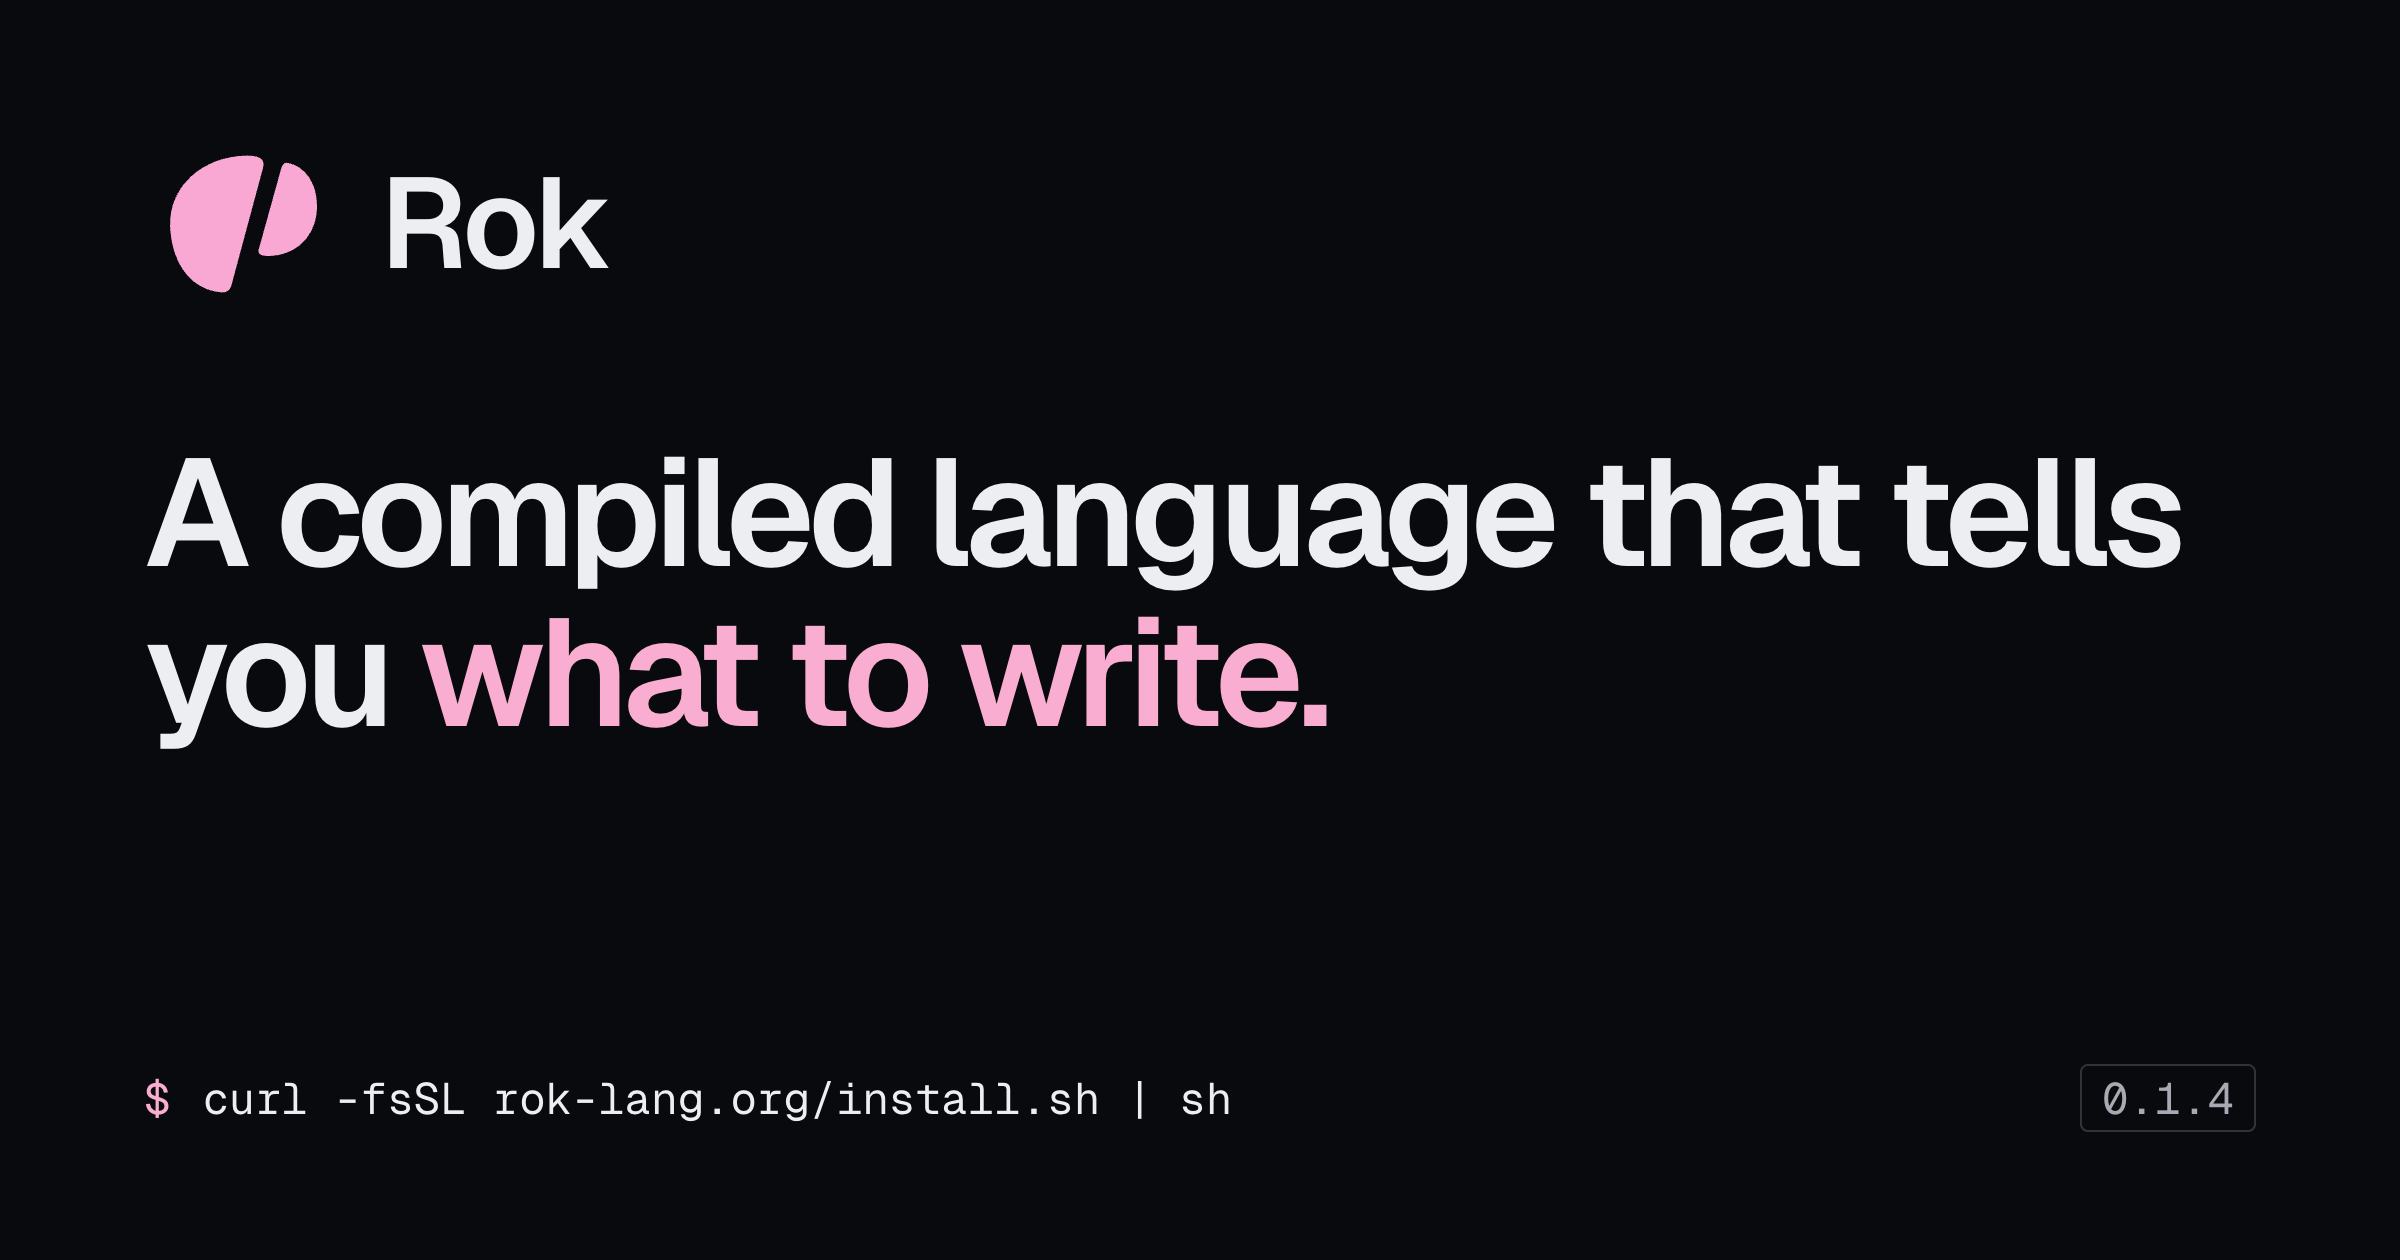
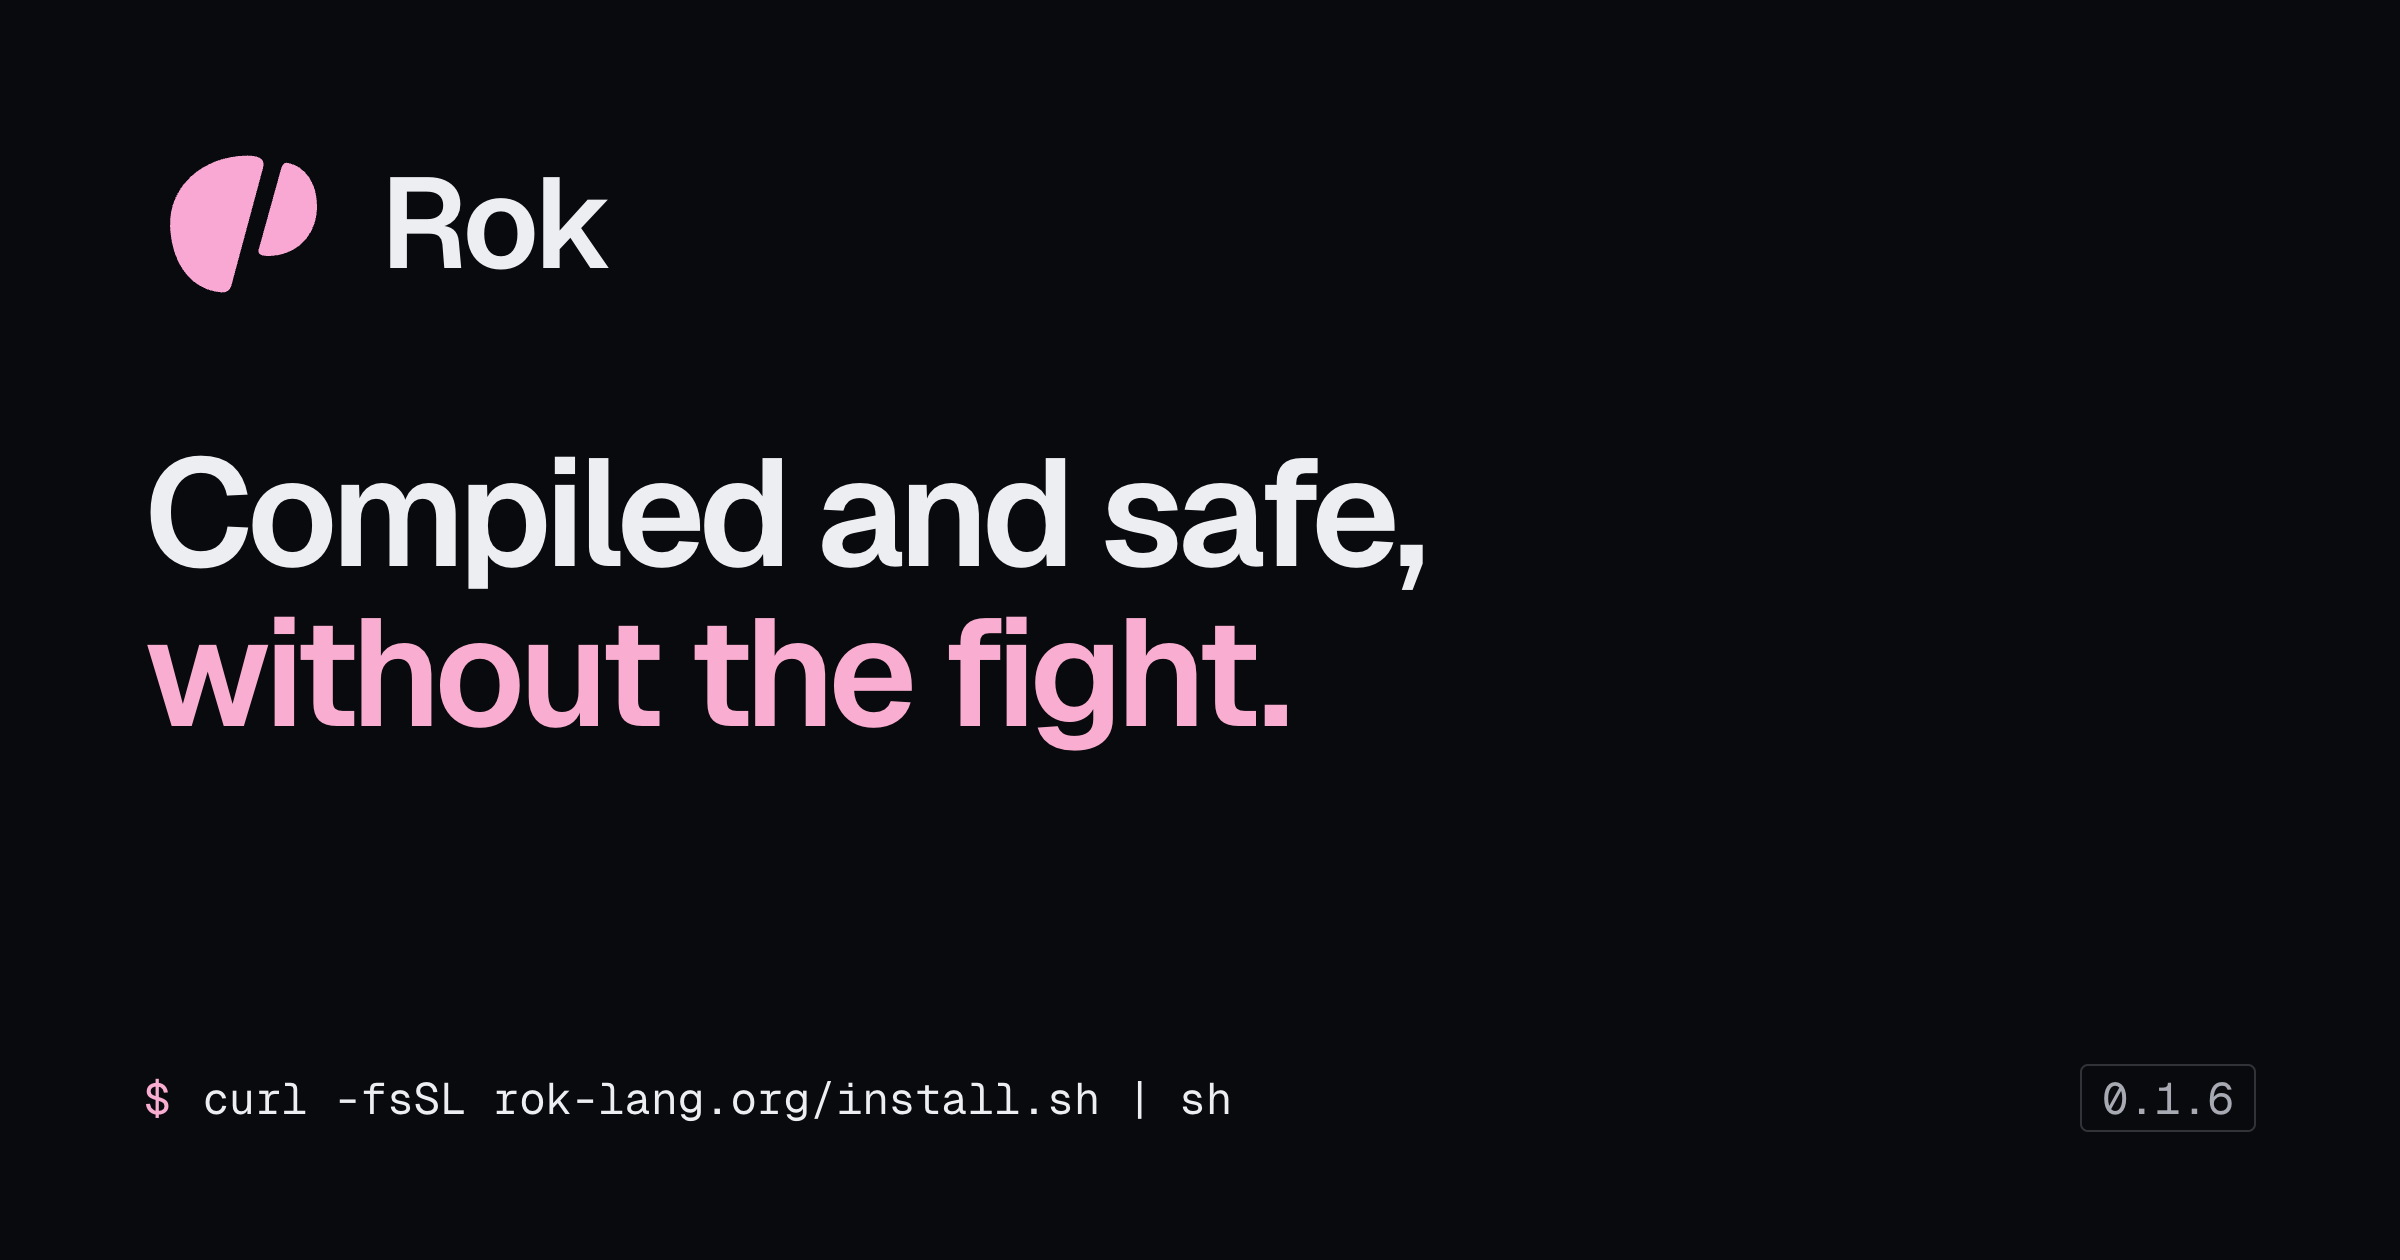
docs(og): card shows the new tagline and 0.1.6
- re-rendered static/og.png

Changed region(s): [[0.0625, 0.3405, 0.9062, 0.619], [0.9062, 0.8667, 0.9375, 0.8976]]

diff --git a/og/card.html b/og/card.html
@@ -17,8 +17,8 @@
 <body>
 <div class="og">
   <div class="mark"><img src="../web/assets/rok.svg" width="96" height="96" alt="">Rok</div>
-  <h1>A compiled language that tells you <span>what to write.</span></h1>
-  <div class="ft"><span style="color: var(--acc)">$</span><span style="color: var(--ink)">curl -fsSL rok-lang.org/install.sh | sh</span><span class="chip">0.1.4</span></div>
+  <h1>Compiled and safe,<br><span>without the fight.</span></h1>
+  <div class="ft"><span style="color: var(--acc)">$</span><span style="color: var(--ink)">curl -fsSL rok-lang.org/install.sh | sh</span><span class="chip">0.1.6</span></div>
 </div>
 </body>
 </html>
